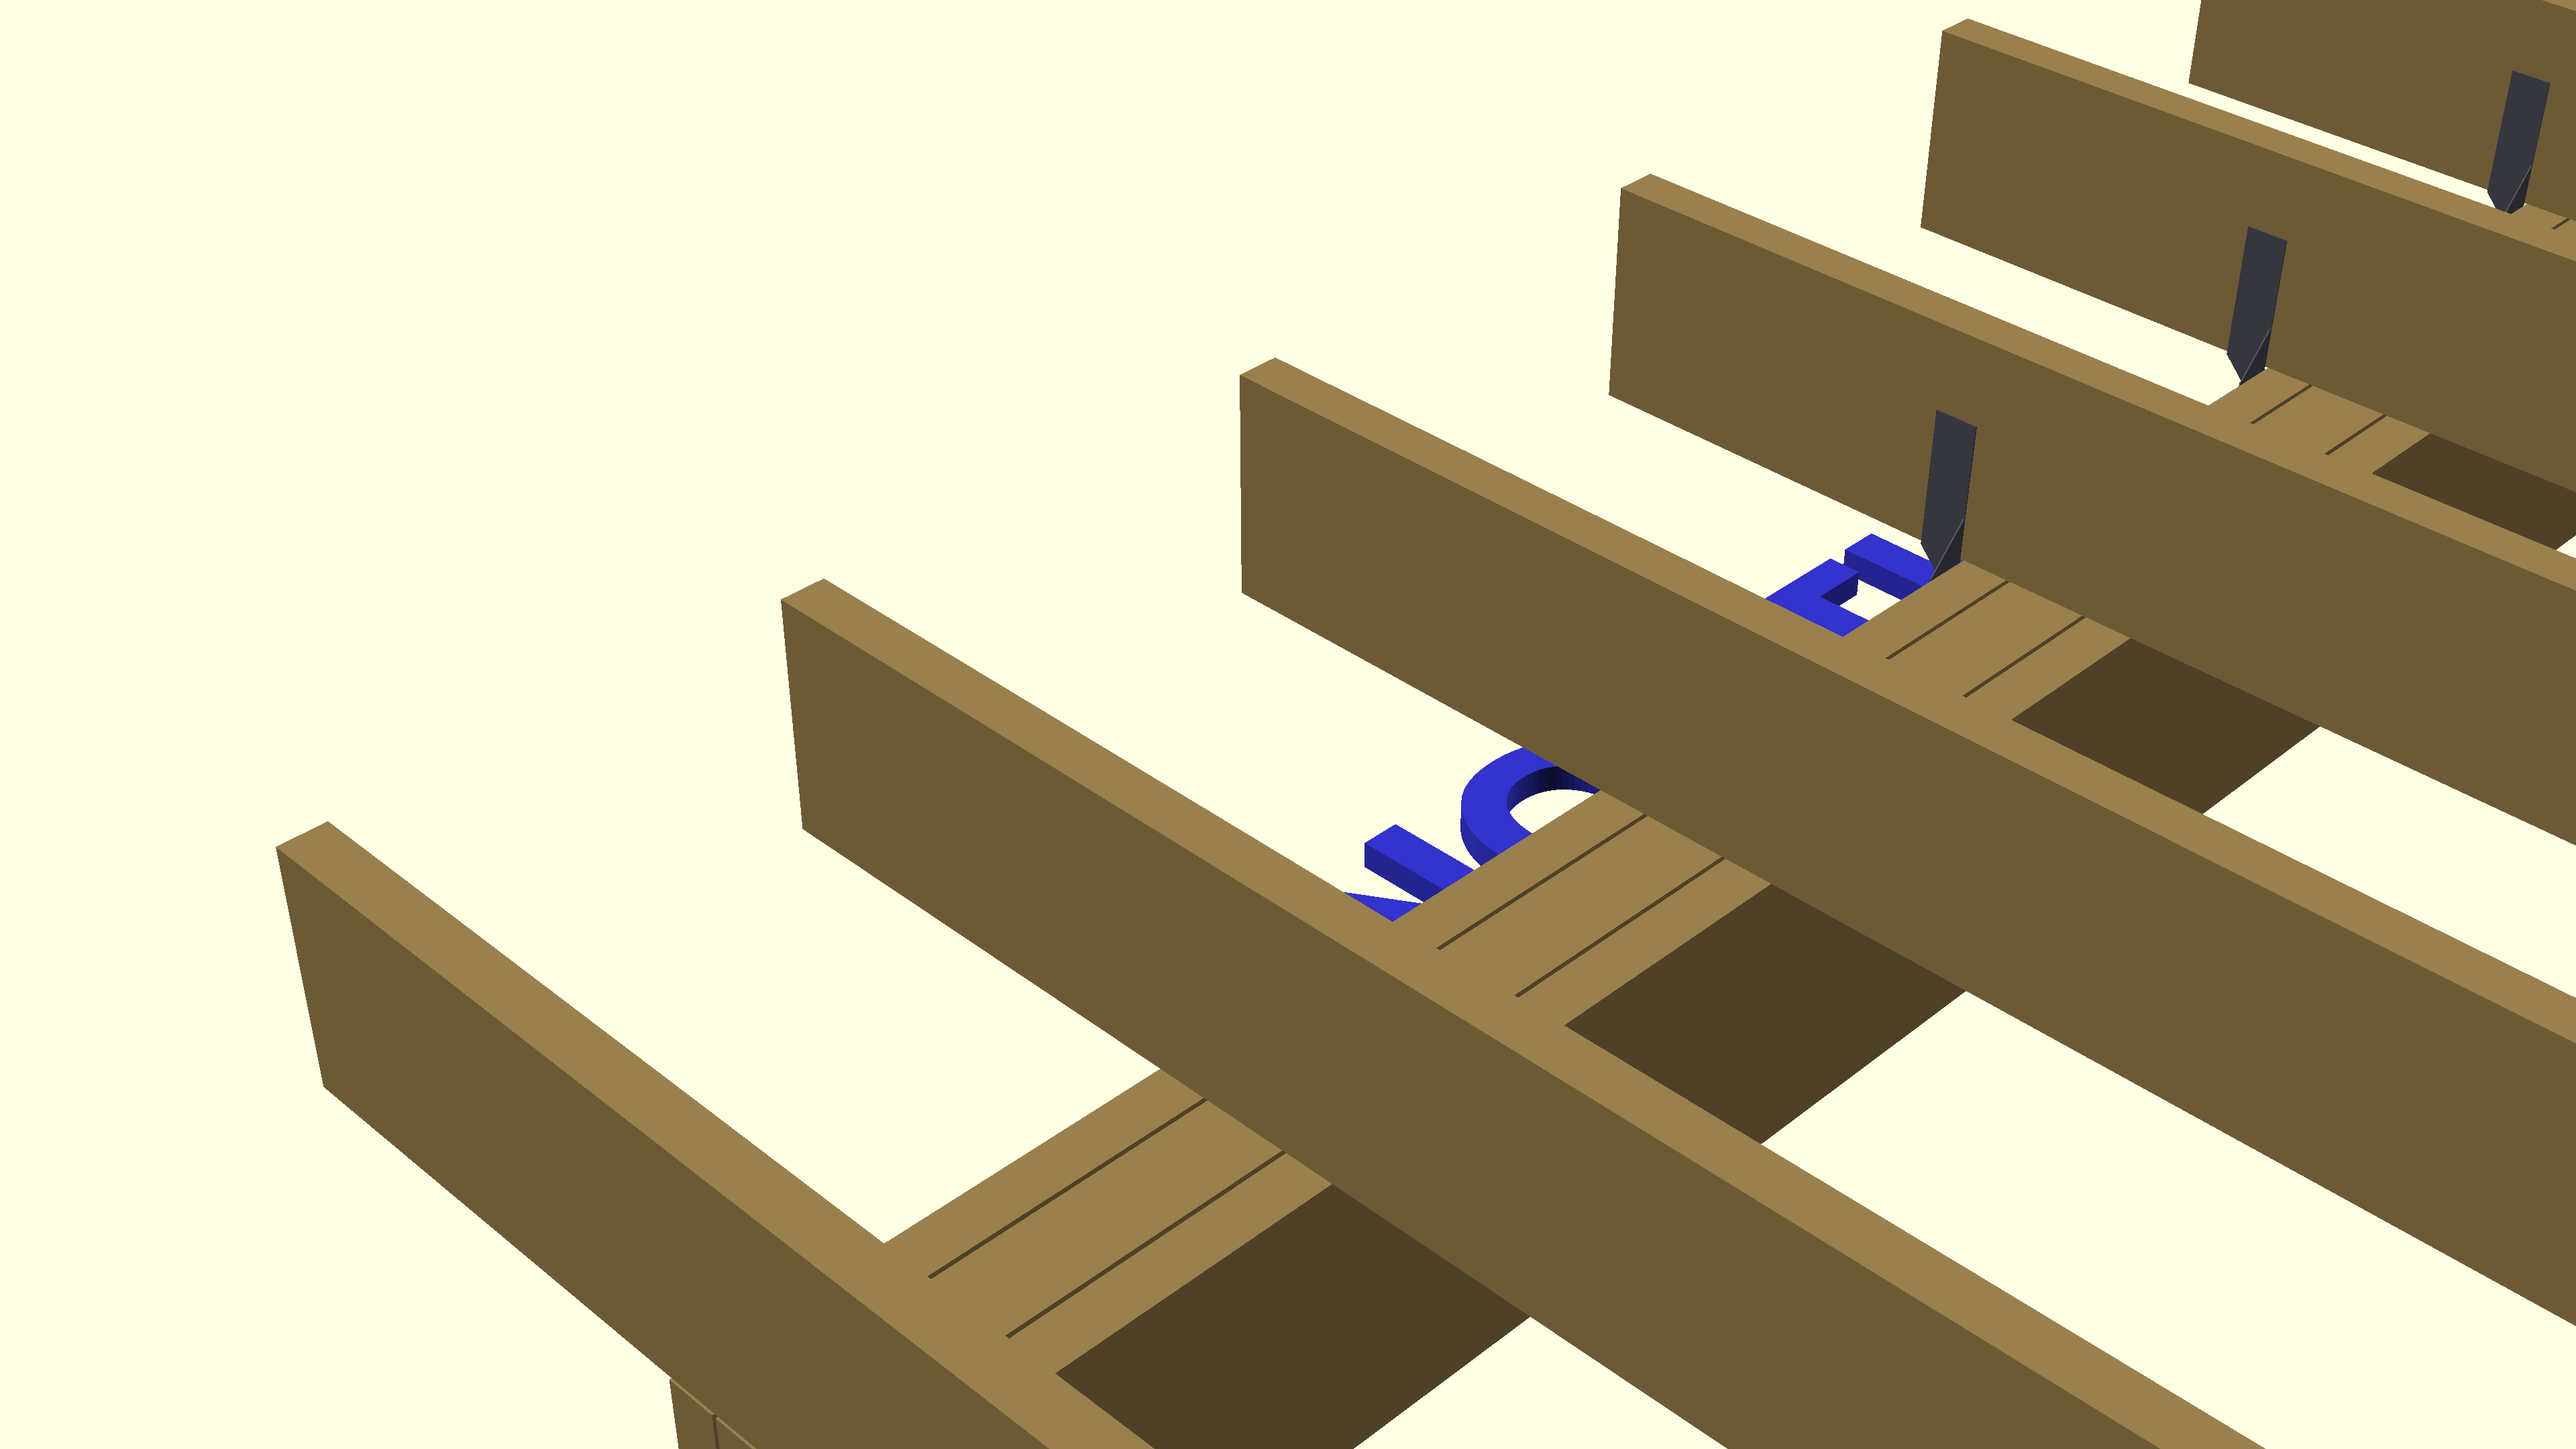
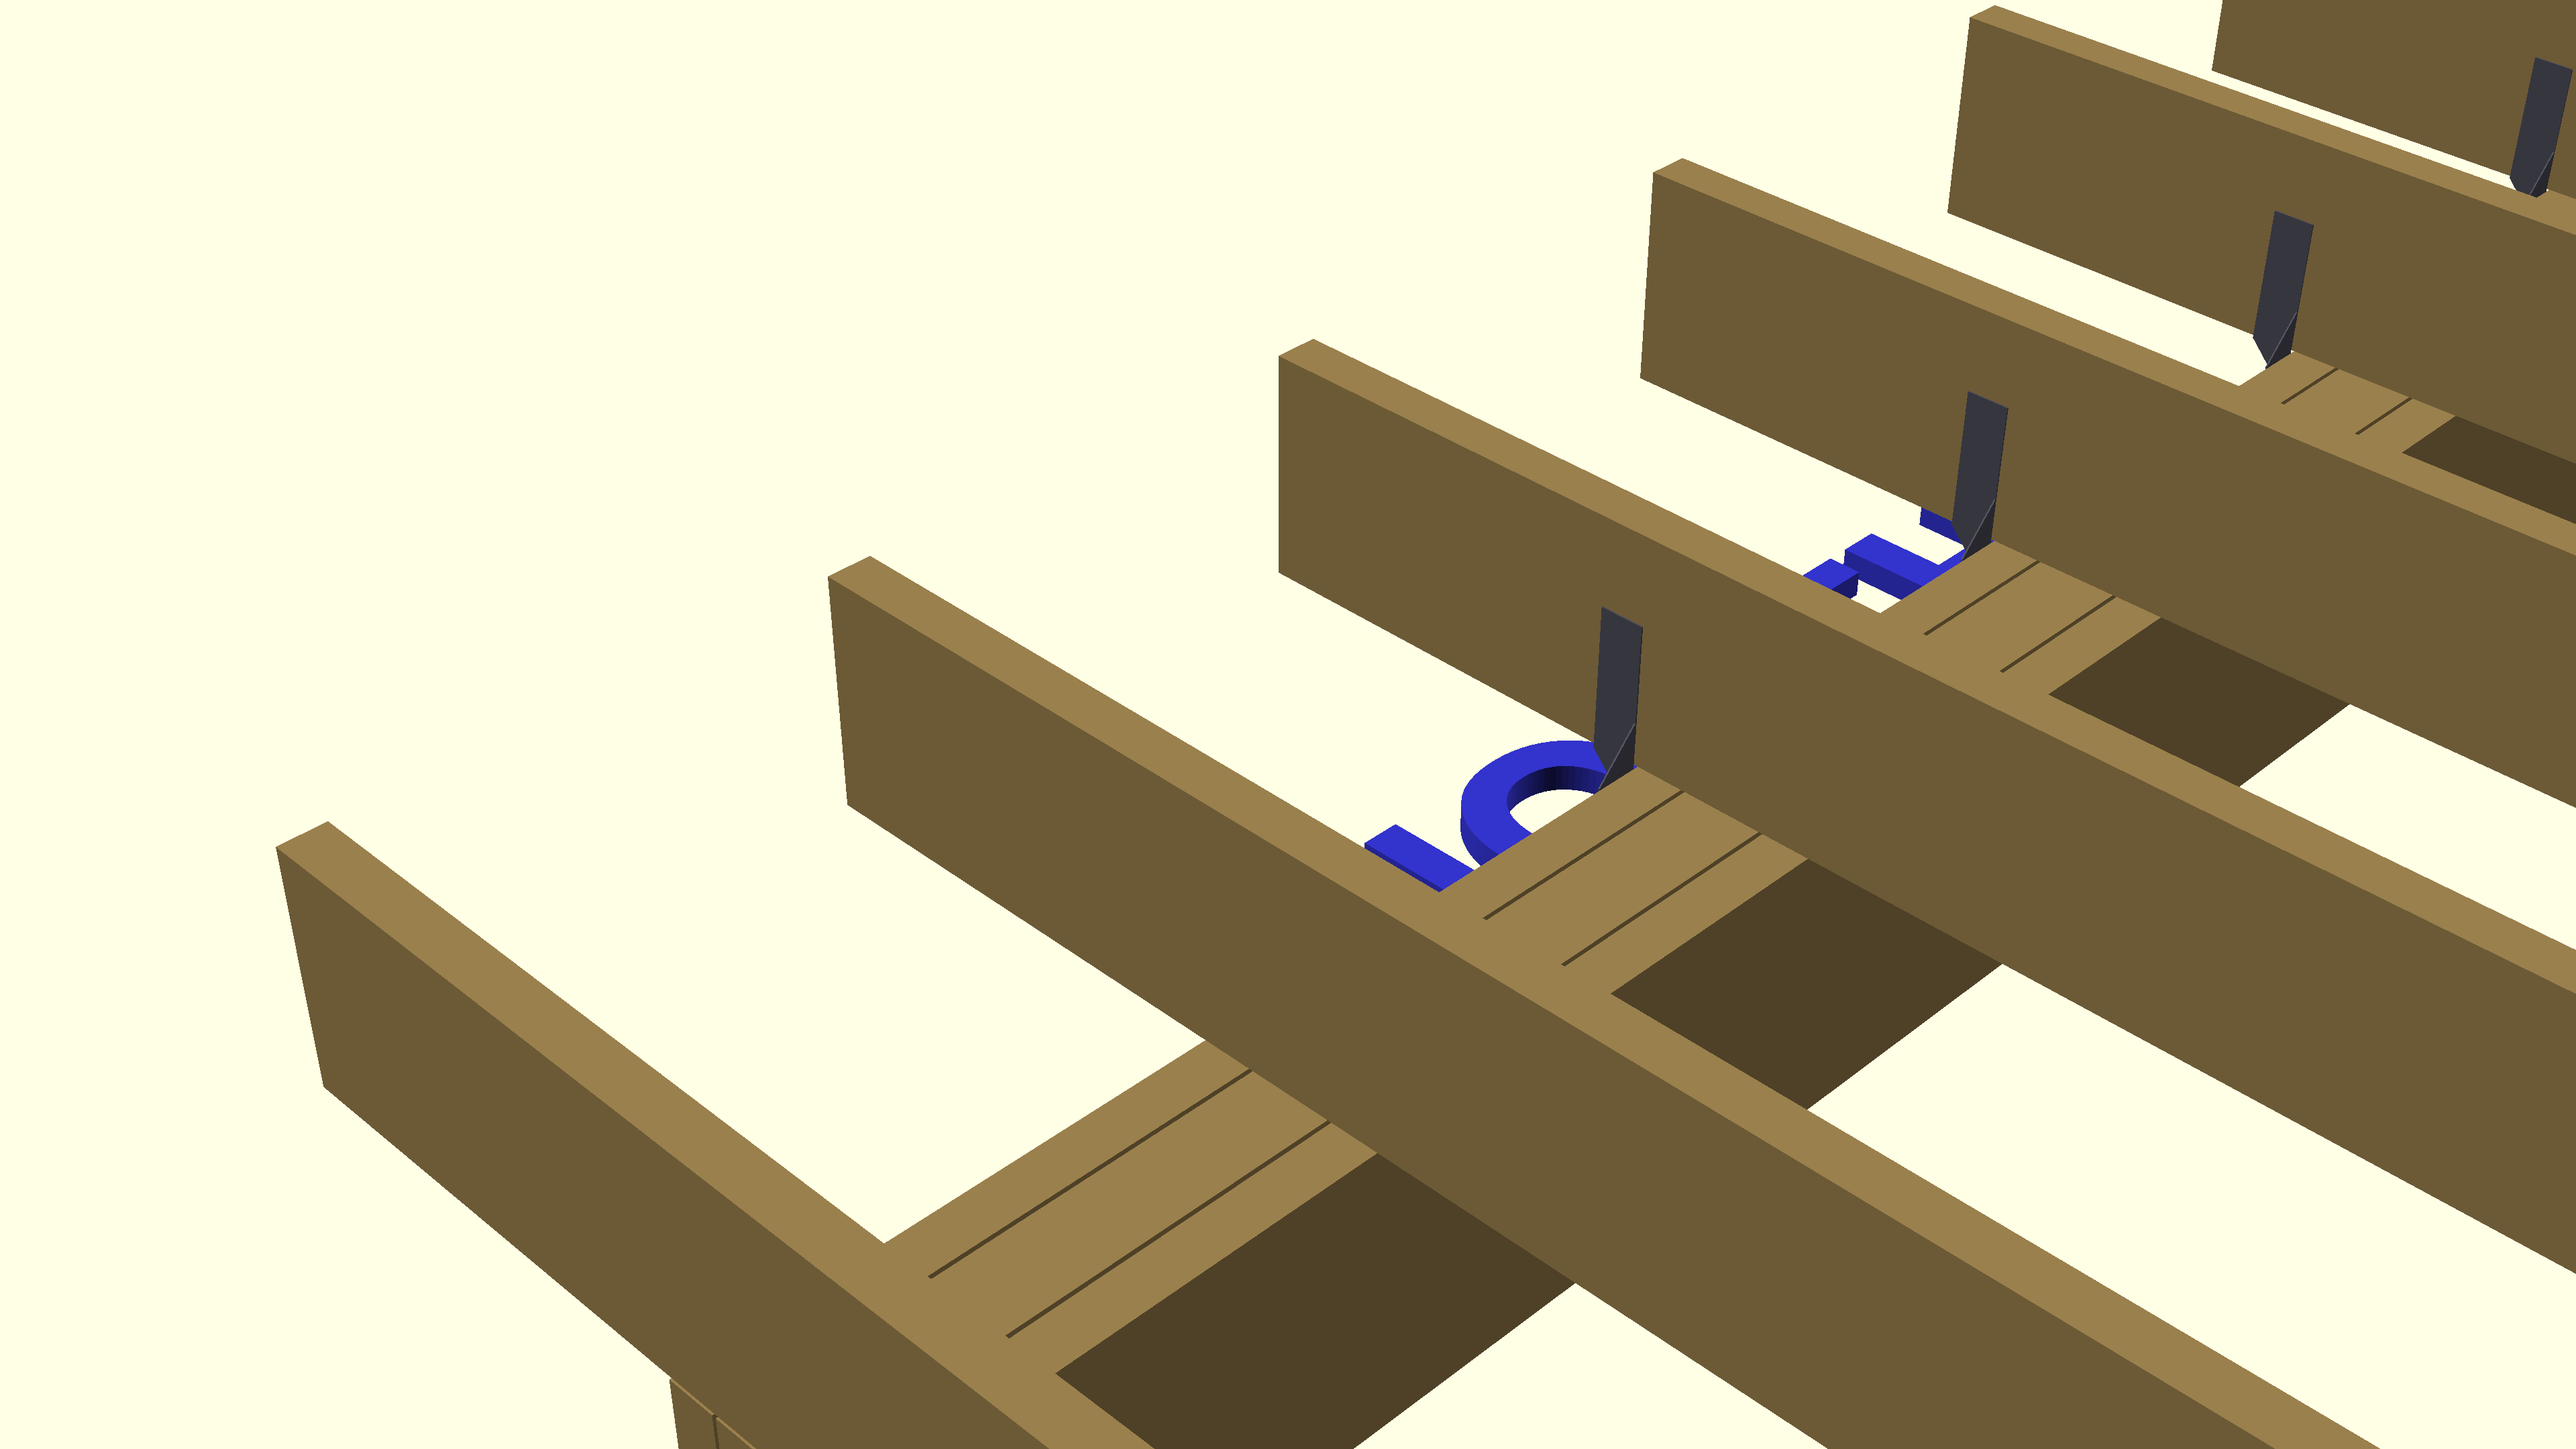
Add E/W wall stud install warning, update model and renders
Wall cutlist: flag 2nd-to-last stud on E/W walls to be left out
during ground assembly and toenailed in after wall is standing
(no nailgun access between last two studs near north wall).

Also includes model tweaks and updated render screenshots.

Changed region(s): [[0.2812, 0.3722, 0.9375, 1.0], [0.4688, 0.2171, 1.0, 0.9306], [0.625, 0.0, 1.0, 0.5894]]

diff --git a/tools/wall-cutlist.js b/tools/wall-cutlist.js
@@ -133,6 +133,14 @@ function ewWall(label) {
   }
   studs.push(length - stud_thickness);
 
+  // NOTE: The 2nd-to-last stud (north end) should NOT be nailed in during
+  // wall assembly on the ground. There's no room for a nailgun between the
+  // last two studs to secure the E/W wall to the north wall. Instead, leave
+  // this stud out during assembly and toenail it into place after the wall
+  // is standing and fastened to the north wall.
+  const secondToLastIdx = studs.length - 2;
+  const secondToLastX = studs[secondToLastIdx];
+
   return {
     name: `${label} (11\'1" / 133")`,
     direction: 'South → North',
@@ -140,11 +148,15 @@ function ewWall(label) {
       { type: 'Bottom plate', size: '2x6', qty: 1, length },
       { type: 'Top plate (double)', size: '2x6', qty: 2, length },
     ],
-    studs: studs.map(x => ({
+    studs: studs.map((x, i) => ({
       type: 'Stud', size: '2x6', qty: 1, length: stud_height,
-      note: `pos=${x}"`
+      note: `pos=${x}"` + (i === secondToLastIdx ? ' ⚠ INSTALL AFTER WALL IS UP — toenail in place' : '')
     })),
-    layout: studs.map(x => ({ left: x, right: x + stud_thickness, label: 'stud', height: stud_height })),
+    layout: studs.map((x, i) => ({
+      left: x, right: x + stud_thickness,
+      label: i === secondToLastIdx ? 'stud ⚠' : 'stud',
+      height: stud_height
+    })),
   };
 }
 
@@ -303,6 +315,8 @@ console.log('  - Jack stud height: ' + fmtLen(door_ro_height) + ' (door R.O. hei
 console.log('  - Cripple stud height: ' + fmtLen(stud_height - door_ro_height - header_height));
 console.log('  - Header span: ' + fmtLen(door_ro_width + 2 * stud_thickness) + ' (jack-to-jack outer)');
 console.log('  - E/W walls are shortened to fit between N/S walls');
+console.log('  - ⚠ E/W walls: leave 2nd-to-last stud (north end) OUT during assembly.');
+console.log('    Toenail it in after the wall is up — no room for nailgun otherwise.');
 console.log('  - Top plates are doubled (qty shown as 2)');
 console.log('  - Plates over 8\' will need to be spliced from shorter stock');
 console.log('');

diff --git a/tools/siding-cuts.js b/tools/siding-cuts.js
@@ -40,8 +40,8 @@ const NS_SIDING_LENGTH = SHED_LENGTH;  // 192"
 const EW_SIDING_LENGTH = SHED_WIDTH + 2 * (OSB_THICK + FURRING_THICK + SIDING_THICK);  // 147"
 
 // Stud positions (furring strip locations) — X from wall left edge
-const SOUTH_STUDS = [0, 14.5, 30.5, 46.5, 62.5, 78.5, 94.5, 110.5, 126.5, 142.5, 158.5, 174.5, 190.5];
-const NORTH_STUDS = [0, 14.5, 30.5, 46.5, 62.5, 78.5, 94.5, 110.5, 126.5, 142.5, 144, 178.5, 180, 190.5];
+const SOUTH_STUDS = [0, 15.25, 31.25, 47.25, 63.25, 79.25, 95.25, 111.25, 127.25, 143.25, 159.25, 175.25, 190.5];
+const NORTH_STUDS = [0, 15.25, 31.25, 47.25, 63.25, 79.25, 95.25, 111.25, 127.25, 142.5, 144, 178.5, 180, 190.5];
 
 // E/W walls: stud positions in cladding local coords
 // Local 0 = south siding outer face. Studs start after osb+furring+siding+stud buildup.
